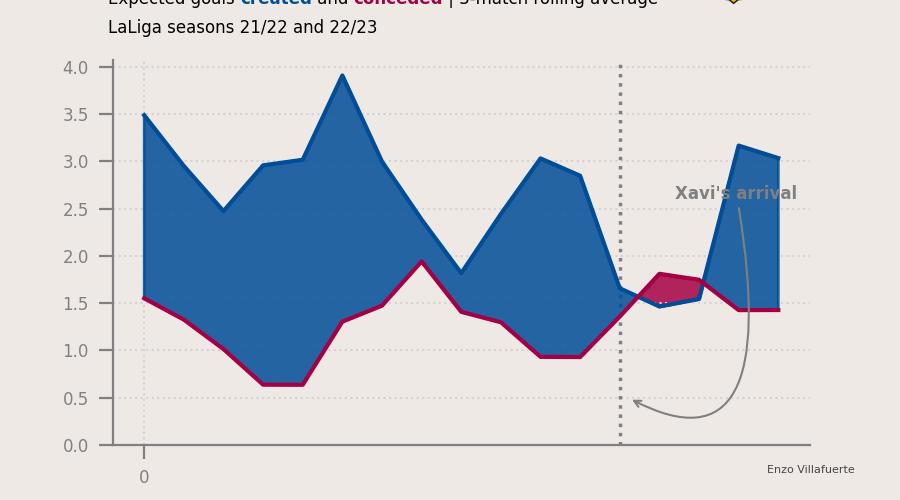
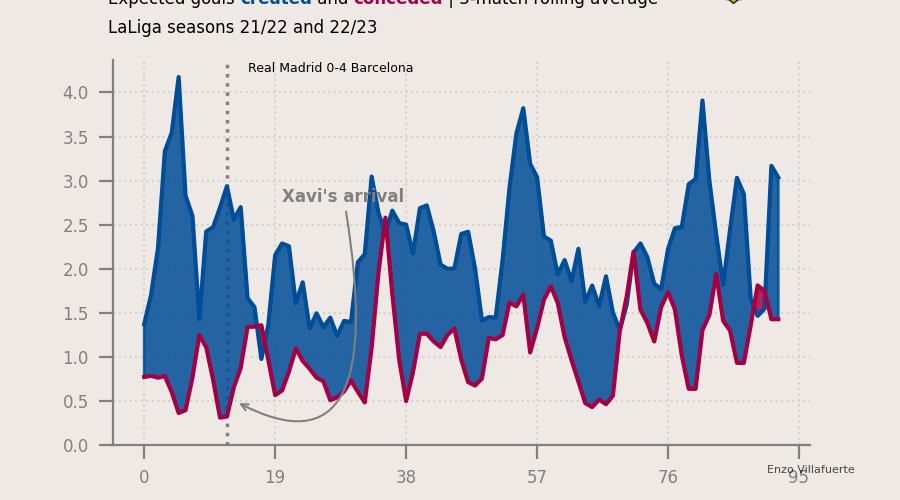
Ran program for several seasons
Need to fix the text section as it is not displaying correctly

diff --git a/xg_moving_average/xg_moving_average.py b/xg_moving_average/xg_moving_average.py
@@ -29,41 +29,74 @@ url = sys.argv[1]
 
 base_url =  'https://understat.com/team/' # base url
 team = 'Barcelona' # coming from input
-year = '2024' # Year of the analysis, iterate over a loop of list if needed
-
+#year = '2024' # Year of the analysis, iterate over a loop of list if needed
+#years_list = ['2020', '2021', '2022', '2023', '2024']
+years_list = ['2022', '2023', '2024']
 # Consolidation of the url 
-url = f'{base_url}{team}/{year}'
+#url = f'{base_url}{team}/{year}'
 
 
+# Adding error handling in case the specific team wasn't in first division in the given year
+def season_scraper(url):
+
+    try:
+        # Begin scraping
+        res = requests.get(url)
+        soup = BeautifulSoup(res.content, 'lxml')
+        scripts = soup.find_all('script')
+
+        # We are interested in the vardatesData section as the information is stored there
+        # Index = [1]
+        strings = scripts[1].string
+
+        # strip unnecessary symbols and get only JSON data 
+        ind_start = strings.index("('")+2 
+        ind_end = strings.index("')") 
+        json_data = strings[ind_start:ind_end] 
+        json_data = json_data.encode('utf8').decode('unicode_escape')
+
+        # convert string to json format
+        data = json.loads(json_data)
+
+        # Create a dataframe
+        # Normalize the data and extract nested dictionaries into separate columns
+        df = pd.json_normalize(
+            data,
+            sep='_',
+            meta=['id', 'isResult', 'side', 'datetime', 'result'],
+            record_prefix=None
+        )
+
+        return df
+
+    except Exception as e:
+        print(f"Failed to scrape data for URL {url}: {e}")
+        return pd.DataFrame()
 
 
-# Begin scraping
-res = requests.get(url)
-soup = BeautifulSoup(res.content, 'lxml')
-scripts = soup.find_all('script')
+# Consolidate data for all seasons defined
+all_data = []
 
-# We are interested in the vardatesData section as the information is stored there
-# Index = [1]
-strings = scripts[1].string
+for year in years_list:
+    url = f'{base_url}{team}/{year}' # consolidation of the url
+    print(f'Scraping data for {team} in {year}')
+    df = season_scraper(url) # Calling the function to scrape the data
+    if not df.empty:
+        df['year'] = year  # adding the year column. Potential redundnacy with datetime column
+        all_data.append(df)
 
-# strip unnecessary symbols and get only JSON data 
-ind_start = strings.index("('")+2 
-ind_end = strings.index("')") 
-json_data = strings[ind_start:ind_end] 
-json_data = json_data.encode('utf8').decode('unicode_escape')
+# Combine all DataFrames into one
+if all_data:
+    consolidated_df = pd.concat(all_data, ignore_index=True)
+    print("Data successfully consolidated!")
+else:
+    consolidated_df = pd.DataFrame()  # Handle the case where no data was scraped
+    print("No data was scraped.")
 
-# convert string to json format
-data = json.loads(json_data)
 
-# Create a dataframe
-# Normalize the data and extract nested dictionaries into separate columns
-df = pd.json_normalize(
-    data,
-    sep='_',
-    meta=['id', 'isResult', 'side', 'datetime', 'result'],
-    record_prefix=None
-)
-
+# Run the function
+# Rename the dataset back to df for viz development
+df = consolidated_df
 
 ##################################################################
 ################### VIZ SECTION #############################
